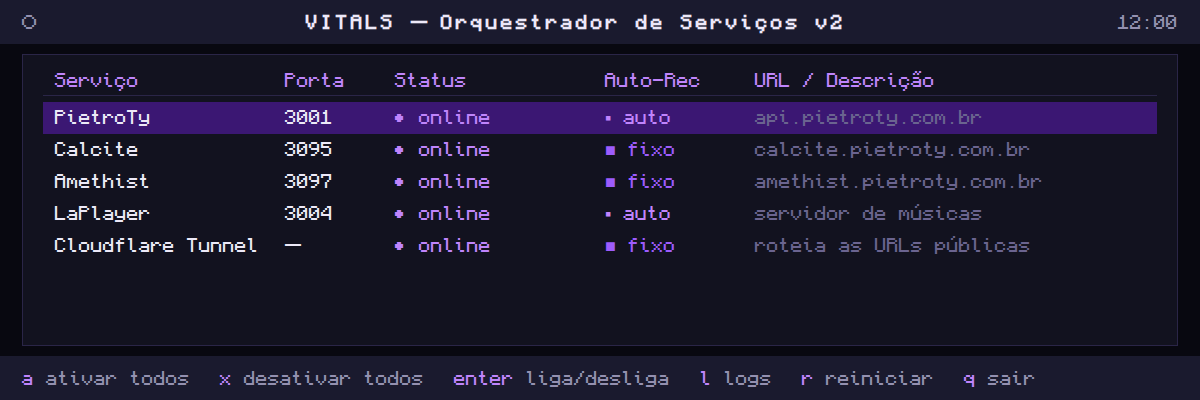
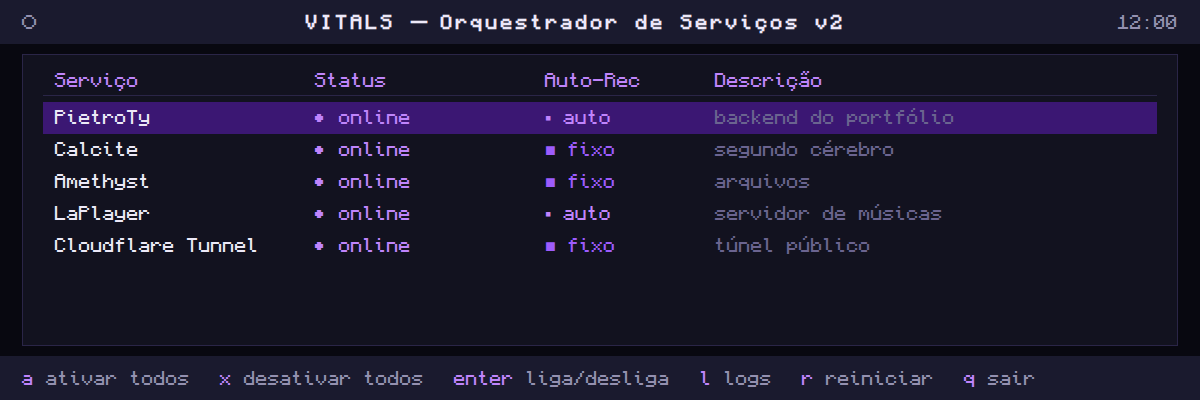
CVPearl no ar, Amethyst com y e Vitals sem portas nem URLs

diff --git a/src/data/projectPages.js b/src/data/projectPages.js
@@ -1,6 +1,6 @@
 import jadeLogo from "../assets/jade_card.png";
 import cvpearlLogo from "../assets/cvpearl_card.png";
-import amethistLogo from "../assets/amethist_card.png";
+import amethystLogo from "../assets/amethyst_card.png";
 import serrasafeLogo from "../assets/serrasafe_card.png";
 
 // Conteúdo das páginas de projeto que usam SimpleProjectPage.
@@ -30,12 +30,13 @@ export const PROJECT_PAGES = {
     logo: cvpearlLogo,
     tag: "Go • JavaScript • Claude Code • Chromium",
     title: "CVPearl",
+    link: "https://cvpearl.pietroty.com.br/",
     origin: { page: "cvmaker", name: "CVMaker" },
     subtitle: {
       pt: "Gerador de currículos sob medida: cola a vaga e ele analisa os requisitos, escreve o currículo de uma página e a mensagem pro recrutador a partir do meu perfil.",
       en: "Tailored résumé generator: paste a job posting and it analyzes the requirements, then writes a one-page résumé and the recruiter message from my profile."
     },
-    badge: { pt: "USO PESSOAL", en: "PERSONAL TOOL" },
+    badge: { pt: "USO PESSOAL · COM SENHA", en: "PERSONAL USE · PASSWORD PROTECTED" },
     features: [
       { icon: "LLM", title: { pt: "Claude Code local", en: "Local Claude Code" }, desc: { pt: "O servidor roda o Claude Code sem interface, só com ferramentas de leitura, e recebe a resposta num JSON com formato fixo.", en: "The server runs Claude Code headless with read-only tools and gets the answer back as JSON in a fixed schema." } },
       { icon: "ANÁLISE", title: { pt: "Análise da vaga", en: "Job Analysis" }, desc: { pt: "Mostra a senioridade real, os requisitos com evidência no perfil, as lacunas e as perguntas que devem aparecer na entrevista.", en: "Shows the real seniority, requirements backed by the profile, gaps, and the questions likely to come up in the interview." } },
@@ -47,10 +48,10 @@ export const PROJECT_PAGES = {
       { pt: "Pra montar o perfil, fiz uma tela de revisão em que conferi uma por uma as 114 afirmações dos currículos antigos. O servidor é em Go e a interface é JavaScript puro.", en: "To build the profile, I made a review screen where I checked all 114 claims from my old résumés one by one. The server is in Go and the interface is plain JavaScript." }
     ]
   },
-  amethist: {
-    logo: amethistLogo,
+  amethyst: {
+    logo: amethystLogo,
     tag: "Go • JavaScript • Flutter • rclone • Syncthing",
-    title: "Amethist",
+    title: "Amethyst",
     subtitle: {
       pt: "Meu próprio gerenciador de arquivos, com cara de drive: navega, mostra fotos, vídeos e documentos, espelha meus projetos e faz backup sozinho pro Google Drive.",
       en: "My own file manager with a drive-like feel: it browses, previews photos, videos, and documents, mirrors my projects, and backs itself up to Google Drive."
@@ -63,7 +64,7 @@ export const PROJECT_PAGES = {
       { icon: "ROTINAS", title: { pt: "Rotinas", en: "Routines" }, desc: { pt: "Roda tarefas agendadas, como os scripts dos meus outros projetos, sem precisar de cron solto pelo sistema.", en: "Runs scheduled tasks, like my other projects' scripts, without loose cron jobs around the system." } }
     ],
     about: [
-      { pt: "Nasceu pra organizar anos de arquivos espalhados entre HD, SSD, Windows e nuvem. Importei tudo copiando e verificando cada arquivo, sem apagar os originais, e depois o Amethist virou o lugar onde tudo mora.", en: "It was built to organize years of files scattered across HDD, SSD, Windows, and the cloud. I imported everything by copying and verifying each file without deleting the originals, and Amethist became where everything lives." },
+      { pt: "Nasceu pra organizar anos de arquivos espalhados entre HD, SSD, Windows e nuvem. Importei tudo copiando e verificando cada arquivo, sem apagar os originais, e depois o Amethyst virou o lugar onde tudo mora.", en: "It was built to organize years of files scattered across HDD, SSD, Windows, and the cloud. I imported everything by copying and verifying each file without deleting the originals, and Amethyst became where everything lives." },
       { pt: "O servidor é em Go, com a interface em JavaScript embutida no binário, e fica acessível pela internet por um túnel da Cloudflare. Os arquivos continuam em pastas normais, então nada fica preso ao app.", en: "The server is in Go with the JavaScript interface embedded in the binary, reachable online through a Cloudflare tunnel. Files stay in normal folders, so nothing is locked into the app." }
     ]
   },

diff --git a/src/config/systemPrompt.js b/src/config/systemPrompt.js
@@ -329,8 +329,8 @@ const SYSTEM_PROMPT_PT = `
                 <technologies>Flutter, Dart, Python, yt-dlp, Deezer API, Syncthing</technologies>
                 <url>não disponível / not available</url>
             </project>
-            <project id="p-amethist">
-                <name>Amethist</name>
+            <project id="p-amethyst">
+                <name>Amethyst</name>
                 <type>Ferramenta pessoal</type>
                 <description>Gerenciador de arquivos próprio com cara de drive: galeria com miniaturas (ffmpeg), prévia de PDFs e documentos do Office, espelho da pasta de projetos de hora em hora, backup diário para o Google Drive (rclone) e rotinas agendadas. Servidor em Go com a interface embutida, app Android em Flutter e acesso pela internet via túnel da Cloudflare. Uso pessoal, sem link público.</description>
                 <technologies>Go, JavaScript, Flutter, rclone, Cloudflare Tunnel</technologies>
@@ -339,7 +339,7 @@ const SYSTEM_PROMPT_PT = `
             <project id="p-cvpearl">
                 <name>CVPearl</name>
                 <type>Ferramenta pessoal · surgiu do CVMaker, o MVP original</type>
-                <description>Gerador de currículos sob medida para cada vaga: lê o perfil e as notas dele, analisa a vaga e escreve o currículo e a mensagem pro recrutador usando o Claude Code rodando local, com PDF de uma página. Servidor em Go. Uso pessoal, sem link público.</description>
+                <description>Gerador de currículos sob medida para cada vaga: lê o perfil e as notas dele, analisa a vaga e escreve o currículo e a mensagem pro recrutador usando o Claude Code rodando local, com PDF de uma página. Servidor em Go. No ar em https://cvpearl.pietroty.com.br, protegido por senha (uso pessoal).</description>
                 <technologies>Go, JavaScript, LLM</technologies>
                 <url>não disponível / not available</url>
             </project>
@@ -979,8 +979,8 @@ const SYSTEM_PROMPT_EN = `
                 <technologies>Flutter, Dart, Python, yt-dlp, Deezer API, Syncthing</technologies>
                 <url>não disponível / not available</url>
             </project>
-            <project id="p-amethist">
-                <name>Amethist</name>
+            <project id="p-amethyst">
+                <name>Amethyst</name>
                 <type>Personal tool</type>
                 <description>His own drive-like file manager: gallery with ffmpeg thumbnails, PDF and Office document previews, hourly mirroring of the projects folder, daily Google Drive backup (rclone), and scheduled routines. Go server with the interface embedded, Flutter Android app, and online access through a Cloudflare tunnel. Personal use, no public link.</description>
                 <technologies>Go, JavaScript, Flutter, rclone, Cloudflare Tunnel</technologies>
@@ -989,7 +989,7 @@ const SYSTEM_PROMPT_EN = `
             <project id="p-cvpearl">
                 <name>CVPearl</name>
                 <type>Personal tool · grew out of CVMaker, the original MVP</type>
-                <description>Tailored résumé generator: reads his profile and notes, analyzes the job posting, and writes the résumé and the recruiter message using Claude Code running locally, with a one-page PDF. Go server. Personal use, no public link.</description>
+                <description>Tailored résumé generator: reads his profile and notes, analyzes the job posting, and writes the résumé and the recruiter message using Claude Code running locally, with a one-page PDF. Go server. Online at https://cvpearl.pietroty.com.br behind a password (personal use).</description>
                 <technologies>Go, JavaScript, LLM</technologies>
                 <url>não disponível / not available</url>
             </project>

diff --git a/src/data/projects.js b/src/data/projects.js
@@ -132,15 +132,15 @@ export const PROJECTS = [
     "nameEn": "CVPearl",
     "taglinePt": "Ferramenta pessoal",
     "taglineEn": "Personal tool",
-    "descPt": "Surgiu do CVMaker, o MVP original. Gerador de currículos sob medida: analisa a vaga e escreve o currículo de uma página e a mensagem pro recrutador a partir de um perfil revisado, usando o Claude Code local. Servidor em Go e PDF pelo Chromium.",
-    "descEn": "Grew out of CVMaker, the original MVP. Tailored résumé generator: analyzes the job posting and writes a one-page résumé and recruiter message from a reviewed profile using local Claude Code. Go server and Chromium PDF output.",
+    "descPt": "Surgiu do CVMaker, o MVP original. Gerador de currículos sob medida: analisa a vaga e escreve o currículo de uma página e a mensagem pro recrutador a partir de um perfil revisado, usando o Claude Code local. Servidor em Go e PDF pelo Chromium. Fica no ar com senha.",
+    "descEn": "Grew out of CVMaker, the original MVP. Tailored résumé generator: analyzes the job posting and writes a one-page résumé and recruiter message from a reviewed profile using local Claude Code. Go server and Chromium PDF output. Online behind a password.",
     "tags": [
       "ia",
       "Go",
       "LLM",
       "JavaScript"
     ],
-    "link": null,
+    "link": "https://cvpearl.pietroty.com.br/",
     "featured": false,
     "color": "#8b5cf6"
   },
@@ -236,9 +236,9 @@ export const PROJECTS = [
     "color": "#22c55e"
   },
   {
-    "id": "amethist",
-    "namePt": "Amethist",
-    "nameEn": "Amethist",
+    "id": "amethyst",
+    "namePt": "Amethyst",
+    "nameEn": "Amethyst",
     "taglinePt": "Ferramenta pessoal",
     "taglineEn": "Personal tool",
     "descPt": "Gerenciador de arquivos próprio com cara de drive: galeria, prévias de documentos, espelho dos projetos de hora em hora, backup diário pro Google Drive e rotinas agendadas. Servidor em Go e app Android.",
